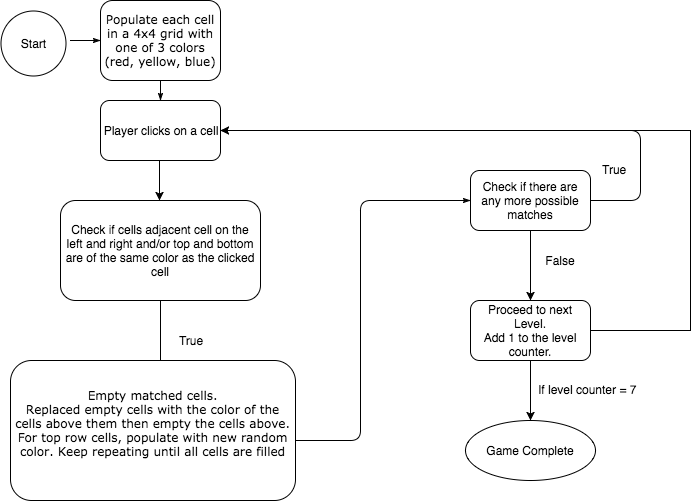
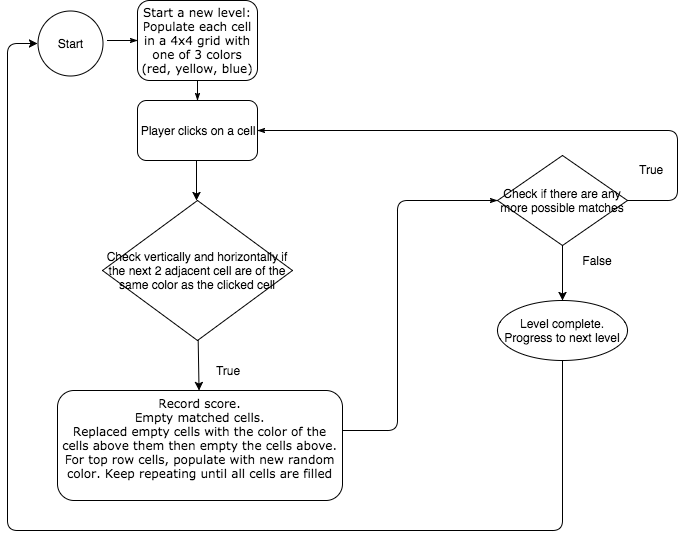
updated flowchart

diff --git a/README.md b/README.md
@@ -29,7 +29,7 @@ Try to get a higher score each time!
 ---
 
 ### Flowchart
-![Temp Logo](/assets/flowchart.png)
+![flowchart](/assets/flowchart.png)
 
 ---
 
